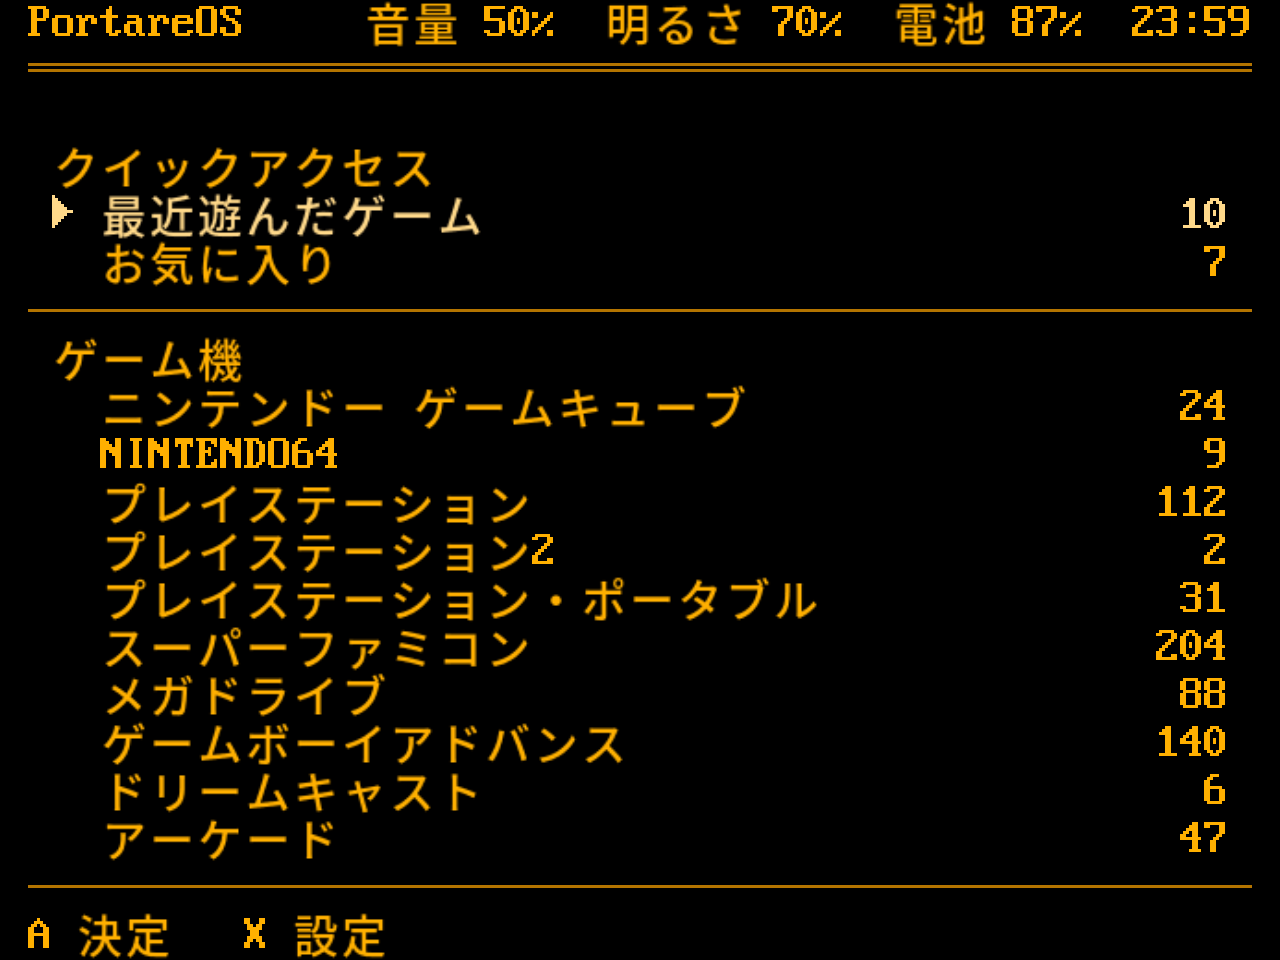
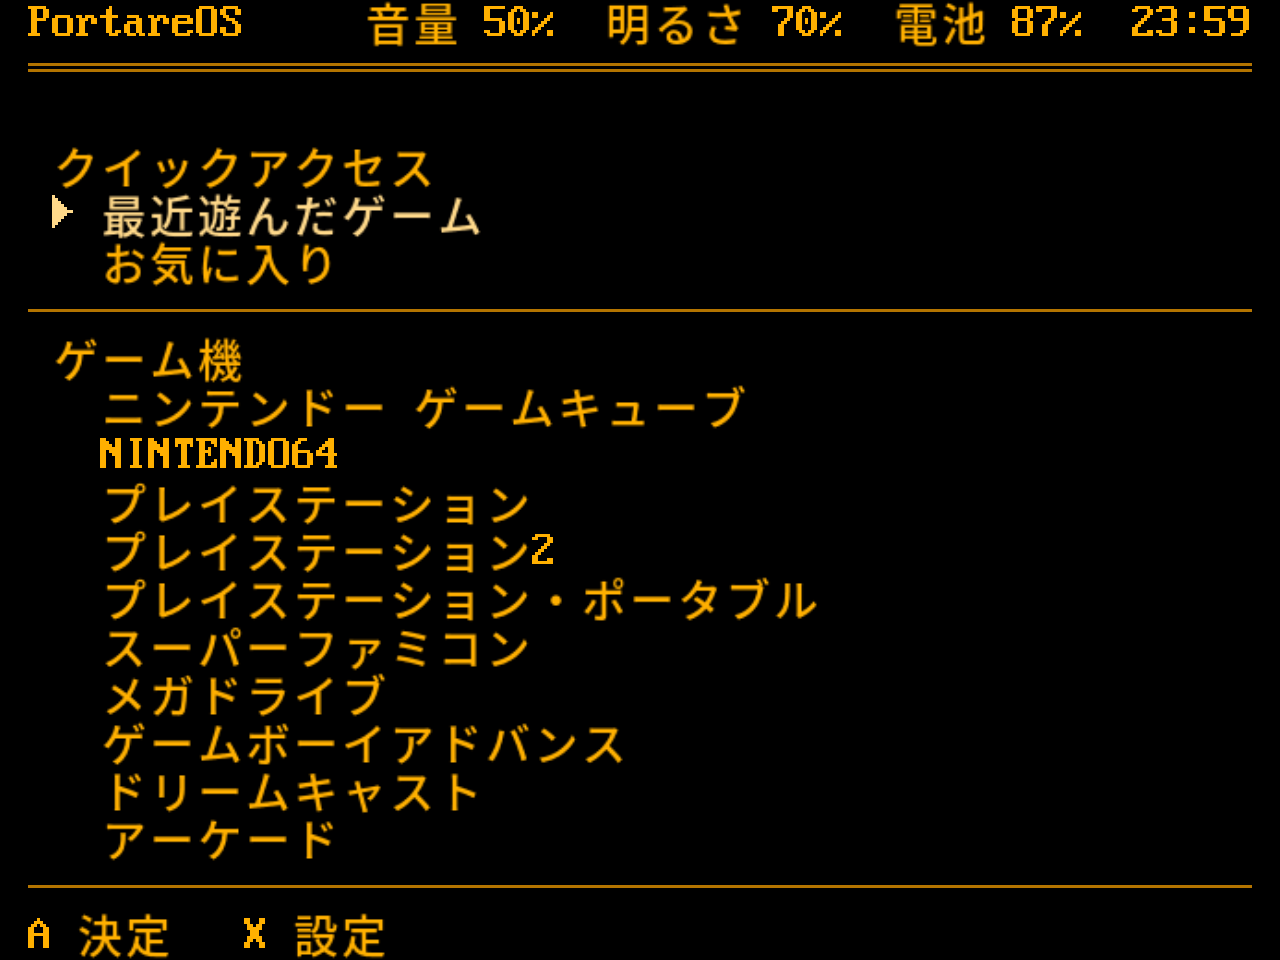
Remove main menu counters from mockups

diff --git a/tools/mockup.py b/tools/mockup.py
@@ -98,13 +98,12 @@ def crumb(name):
     return header("PortareOS  \u203a  " + name, CLOCK)
 THIN = " " + "\u2500" * (COLS - 2)
 
-SYS = [("GameCube", 24), ("Nintendo 64", 9), ("PlayStation", 112),
-       ("PlayStation 2", 2), ("PlayStation Portable", 31), ("SNES", 204),
-       ("Mega Drive", 88), ("Game Boy Advance", 140), ("Dreamcast", 6),
-       ("Arcade", 47)]
+SYS = ["GameCube", "Nintendo 64", "PlayStation",
+       "PlayStation 2", "PlayStation Portable", "SNES",
+       "Mega Drive", "Game Boy Advance", "Dreamcast", "Arcade"]
 
 systems = [header("PortareOS"), RULE, ""]
-systems += [item(i == 0, n, str(c)) for i, (n, c) in enumerate(SYS)]
+systems += [item(i == 0, n) for i, n in enumerate(SYS)]
 systems += [""] * (ROWS - 2 - len(systems))
 systems += [THIN, row(" A SELECT   X SETTINGS", "")]
 
@@ -256,12 +255,12 @@ launching += ["           Tekken 3 (USA)", "",
 launching += [""] * 9
 
 # ---- quick access, recent, favourites, long titles ----------------------
-QUICK = [("Recently played", 10), ("Favourites", 7)]
+QUICK = ["Recently played", "Favourites"]
 systems_quick = [header("PortareOS"), RULE, "",
                  row("  QUICK ACCESS", "")]
-systems_quick += [item(i == 0, n, str(c)) for i, (n, c) in enumerate(QUICK)]
+systems_quick += [item(i == 0, n) for i, n in enumerate(QUICK)]
 systems_quick += [THIN, row("  SYSTEMS", "")]
-systems_quick += [item(False, n, str(c)) for n, c in SYS]
+systems_quick += [item(False, n) for n in SYS]
 systems_quick += [THIN, row(" A SELECT   X SETTINGS", "")]
 
 # Unselected titles use ellipses. Selected titles pause 1 s, scroll a column
@@ -405,23 +404,23 @@ def ja_header(crumb):
 def ja_crumb(name):
     return header("PortareOS  \u203a  " + name, CLOCK)
 
-JA_QUICK = [("\u6700\u8fd1\u904a\u3093\u3060\u30b2\u30fc\u30e0", 10),
-            ("\u304a\u6c17\u306b\u5165\u308a", 7)]
-JA_SYS = [("\u30cb\u30f3\u30c6\u30f3\u30c9\u30fc \u30b2\u30fc\u30e0\u30ad\u30e5\u30fc\u30d6", 24),
-          ("NINTENDO64", 9),
-          ("\u30d7\u30ec\u30a4\u30b9\u30c6\u30fc\u30b7\u30e7\u30f3", 112),
-          ("\u30d7\u30ec\u30a4\u30b9\u30c6\u30fc\u30b7\u30e7\u30f32", 2),
-          ("\u30d7\u30ec\u30a4\u30b9\u30c6\u30fc\u30b7\u30e7\u30f3\u30fb\u30dd\u30fc\u30bf\u30d6\u30eb", 31),
-          ("\u30b9\u30fc\u30d1\u30fc\u30d5\u30a1\u30df\u30b3\u30f3", 204),
-          ("\u30e1\u30ac\u30c9\u30e9\u30a4\u30d6", 88),
-          ("\u30b2\u30fc\u30e0\u30dc\u30fc\u30a4\u30a2\u30c9\u30d0\u30f3\u30b9", 140),
-          ("\u30c9\u30ea\u30fc\u30e0\u30ad\u30e3\u30b9\u30c8", 6),
-          ("\u30a2\u30fc\u30b1\u30fc\u30c9", 47)]
+JA_QUICK = ["\u6700\u8fd1\u904a\u3093\u3060\u30b2\u30fc\u30e0",
+            "\u304a\u6c17\u306b\u5165\u308a"]
+JA_SYS = ["\u30cb\u30f3\u30c6\u30f3\u30c9\u30fc \u30b2\u30fc\u30e0\u30ad\u30e5\u30fc\u30d6",
+          "NINTENDO64",
+          "\u30d7\u30ec\u30a4\u30b9\u30c6\u30fc\u30b7\u30e7\u30f3",
+          "\u30d7\u30ec\u30a4\u30b9\u30c6\u30fc\u30b7\u30e7\u30f32",
+          "\u30d7\u30ec\u30a4\u30b9\u30c6\u30fc\u30b7\u30e7\u30f3\u30fb\u30dd\u30fc\u30bf\u30d6\u30eb",
+          "\u30b9\u30fc\u30d1\u30fc\u30d5\u30a1\u30df\u30b3\u30f3",
+          "\u30e1\u30ac\u30c9\u30e9\u30a4\u30d6",
+          "\u30b2\u30fc\u30e0\u30dc\u30fc\u30a4\u30a2\u30c9\u30d0\u30f3\u30b9",
+          "\u30c9\u30ea\u30fc\u30e0\u30ad\u30e3\u30b9\u30c8",
+          "\u30a2\u30fc\u30b1\u30fc\u30c9"]
 ja_systems = [ja_header("PortareOS"), RULE, "",
               row("  \u30af\u30a4\u30c3\u30af\u30a2\u30af\u30bb\u30b9", "")]
-ja_systems += [item(i == 0, n, str(c)) for i, (n, c) in enumerate(JA_QUICK)]
+ja_systems += [item(i == 0, n) for i, n in enumerate(JA_QUICK)]
 ja_systems += [THIN, row("  \u30b2\u30fc\u30e0\u6a5f", "")]
-ja_systems += [item(False, n, str(c)) for n, c in JA_SYS]
+ja_systems += [item(False, n) for n in JA_SYS]
 ja_systems += [THIN, row(" A \u6c7a\u5b9a   X \u8a2d\u5b9a", "")]
 
 # Japanese filenames sort by code point, without readings. The selected long
